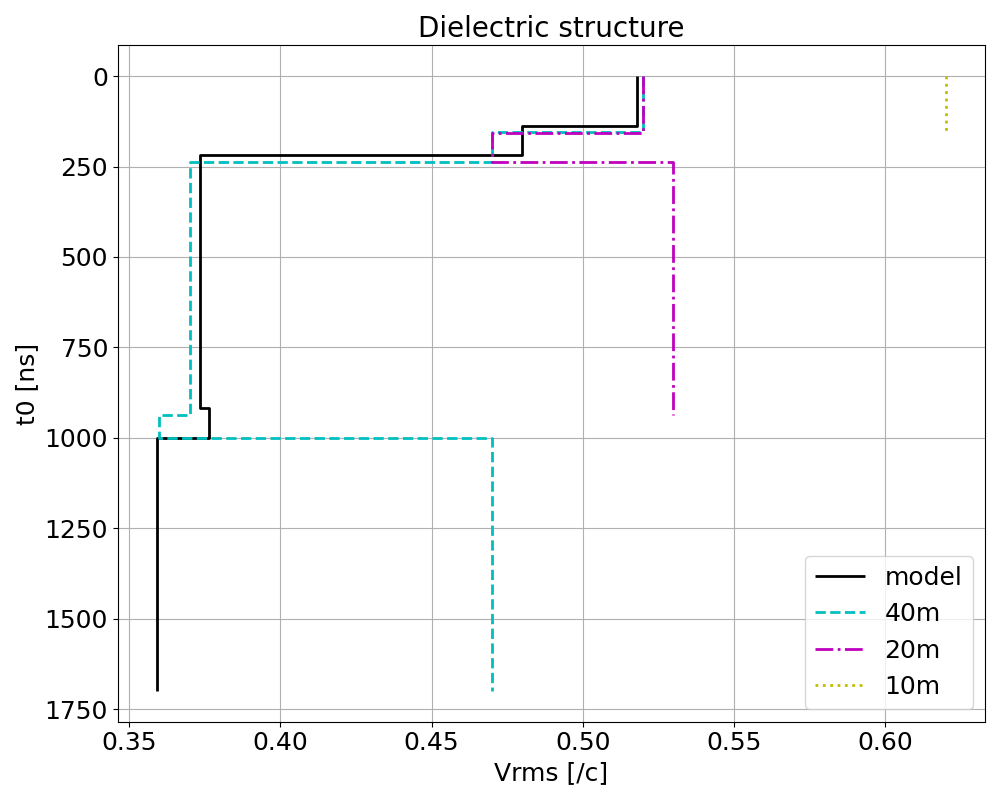
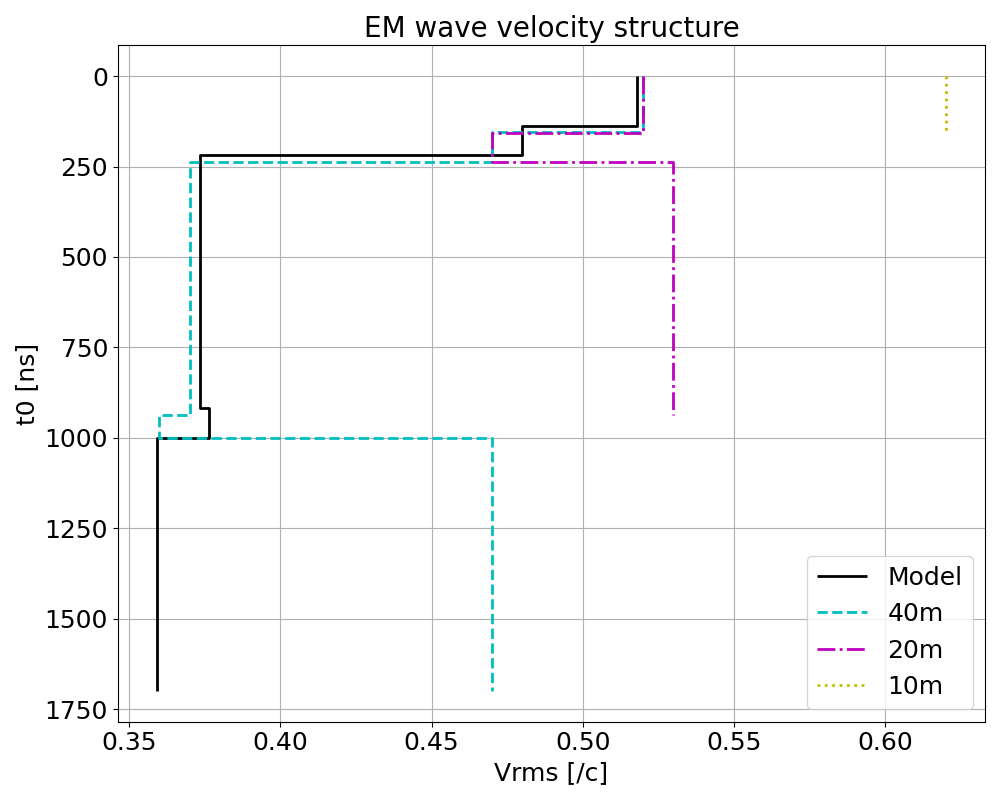
plot_source_wave のエラー除去

Changed region(s): [[0.372, 0.0, 0.744, 0.0625], [0.868, 0.7188, 0.961, 0.875]]

diff --git a/tools/plot_source_wave.py b/tools/plot_source_wave.py
@@ -111,25 +111,25 @@ def mpl_plot(w, timewindow, dt, iterations, fft=False):
             pltrange = np.where(freqs > 4 * w.freq)[0][0]
         pltrange = np.s_[0:pltrange]
 
-        fig, (ax1, ax2) = plt.subplots(nrows=1, ncols=2, num=w.type, figsize=(16, 8), facecolor='w', edgecolor='w')
+        fig, (ax1, ax2) = plt.subplots(nrows=1, ncols=2, num=w.type, figsize=(16, 8), facecolor='w', edgecolor='w', tight_layout=True)
 
         # Plot waveform
         ax1.plot(time, waveform, 'r', lw=2)
-        ax1.set_xlabel('Time [s]', size=16)
-        ax1.set_ylabel('Amplitude', size=16)
+        ax1.set_xlabel('Time [s]', size=20)
+        ax1.set_ylabel('Amplitude', size=20)
 
         # Plot frequency spectra
-        markerline, stemlines, baseline = ax2.stem(freqs[pltrange], power[pltrange], '-.', use_line_collection=True)
+        markerline, stemlines, baseline = ax2.stem(freqs[pltrange], power[pltrange], '-.')
         plt.setp(baseline, 'linewidth', 0)
         plt.setp(stemlines, 'color', 'r')
         plt.setp(markerline, 'markerfacecolor', 'r', 'markeredgecolor', 'r')
         ax2.plot(freqs[pltrange], power[pltrange], 'r', lw=2)
-        ax2.set_xlabel('Frequency [Hz]', size=16)
-        ax2.set_ylabel('Power [dB]', size=16)
+        ax2.set_xlabel('Frequency [Hz]', size=20)
+        ax2.set_ylabel('Power [dB]', size=20)
 
         # メモリサイズの変更
-        ax1.tick_params(labelsize=15)
-        ax2.tick_params(labelsize=15)
+        ax1.tick_params(labelsize=18)
+        ax2.tick_params(labelsize=18)
 
         
 
@@ -138,8 +138,9 @@ def mpl_plot(w, timewindow, dt, iterations, fft=False):
 
         # Plot waveform
         ax1.plot(time, waveform, 'r', lw=2)
-        ax1.set_xlabel('Time [s]')
-        ax1.set_ylabel('Amplitude')
+        ax1.set_xlabel('Time [s]', fontsize=20)
+        ax1.set_ylabel('Amplitude', fontsize=20)
+        ax1.tick_params(labelsize=18)
 
     [ax.grid(which='both', axis='both', linestyle='-.') for ax in fig.axes]  # Turn on grid
 

diff --git a/tools/plot_dielectric_structure.py b/tools/plot_dielectric_structure.py
@@ -98,8 +98,11 @@ collections_model = run_geometry('kanda/domain_50x100/no_loss/geometry/geometry.
 collections_40m = run_estimation('kanda/domain_50x100/no_loss/multi_CMP_int1_40m/multi_int1.json')
 collections_20m = run_estimation('kanda/domain_50x100/no_loss/multi_CMP_int1_20m/muti_CMP_int1_20m.json')
 collections_10m = run_estimation('kanda/domain_50x100/no_loss/multi_CMP_int1_10m/muti_CMP_int1_10m.json')
+
+
 arrays = [collections_model, collections_40m, collections_20m, collections_10m]
 clors = ['k', 'c', 'm', 'y']
+line_styles = ['-', '--', '-.', ':']
 labels = ['Model', '40m', '20m', '10m']
 
 #* plot
@@ -115,6 +118,7 @@ for i in range(len(arrays)):
     lines = arrays[i]
     ax.add_collection(lines)
     lines.set_color(clors[i])
+    lines.set_linestyle(line_styles[i])
     lines.set_label(labels[i])
 
 ax.set_xlabel('Dielectric constant', fontsize=fontsize_medium)
@@ -122,7 +126,7 @@ ax.set_ylabel('Depth [m]', fontsize=fontsize_medium)
 ax.set_title('Dielectric structure', fontsize=fontsize_large)
 
 ax.autoscale()
-#ax.set_xlim(1, 15)
+ax.set_xlim(1, 15)
 ax.legend(fontsize=fontsize_medium, loc = 'lower right')
 ax.tick_params(labelsize=fontsize_medium)
 ax.grid()

diff --git a/tools/plot_velocity_structure.py b/tools/plot_velocity_structure.py
@@ -78,7 +78,7 @@ geometry = calc_Vrms_geometry(geometry_json)
 arrays = [geometry, max_40m, max_20m, max_10m]
 clors = ['k', 'c', 'm', 'y']
 line_styles = ['-', '--', '-.', ':']
-labels = ['model', '40m', '20m', '10m']
+labels = ['Model', '40m', '20m', '10m']
 
 
 #* plot
@@ -99,7 +99,7 @@ for i in range(len(arrays)):
 
 ax.set_xlabel('Vrms [/c]', fontsize=fontsize_medium)
 ax.set_ylabel('t0 [ns]', fontsize=fontsize_medium)
-ax.set_title('Dielectric structure', fontsize=fontsize_large)
+ax.set_title('EM wave velocity structure', fontsize=fontsize_large)
 
 ax.autoscale()
 #ax.set_xlim(0, 1)
